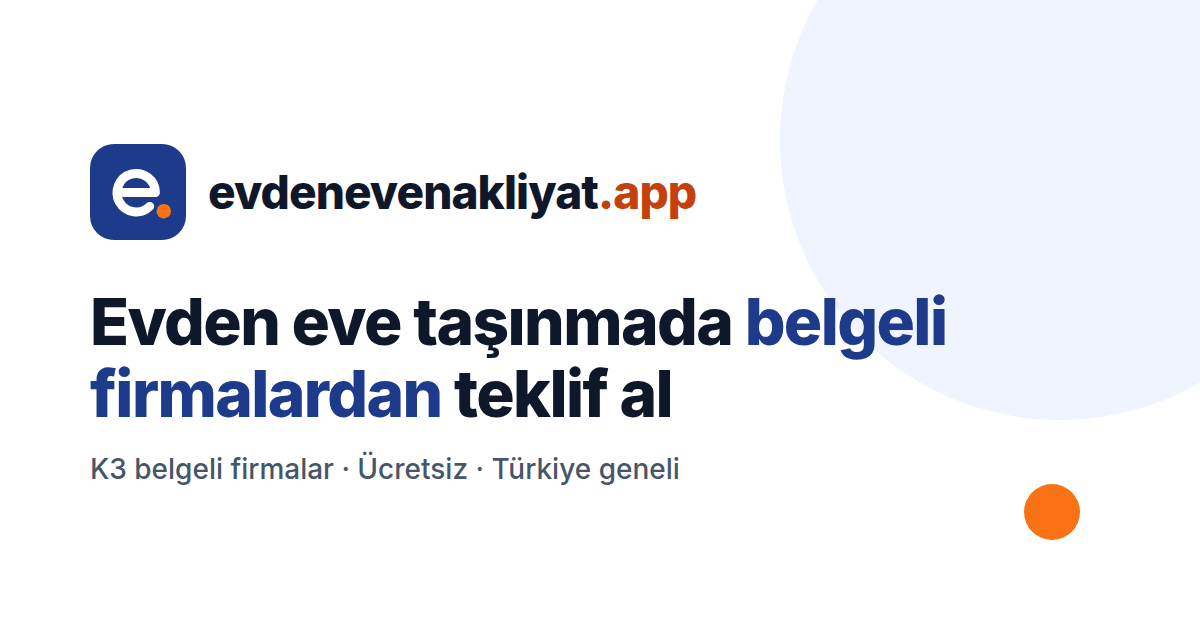
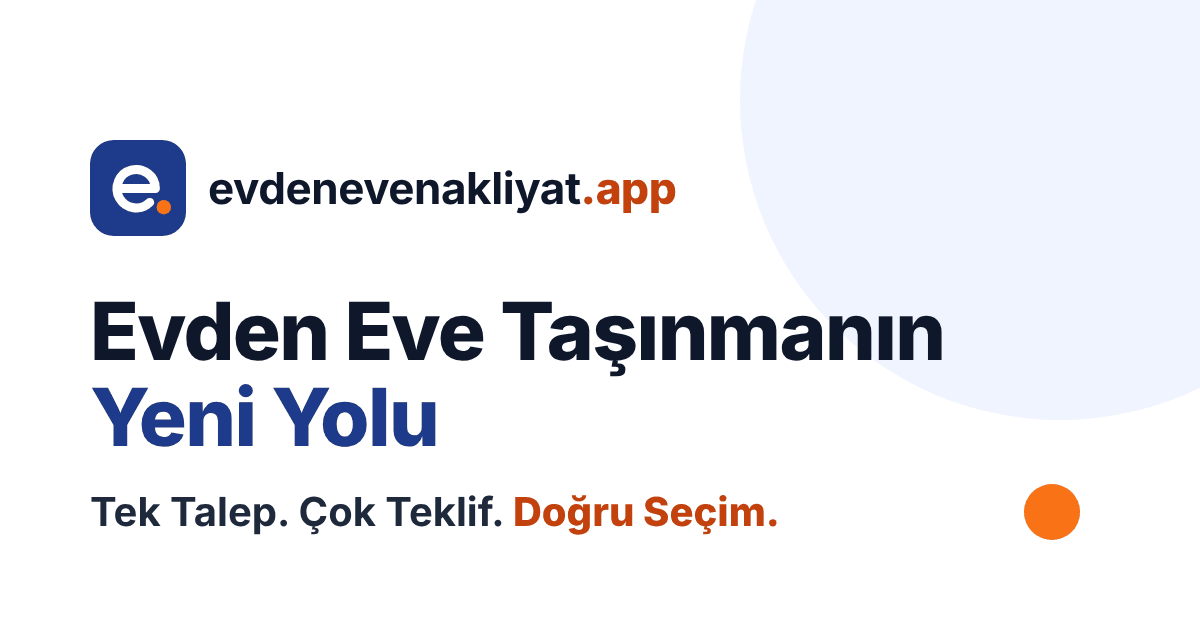
feat: marka sloganlarını siteye işle
Ana sayfa başlığı 'Evden Eve Taşınmanın Yeni Yolu', alt satır 'Tek Talep. Çok Teklif.
Doğru Seçim.', 'Taşınmak artık daha kolay.' vurgusu; adım başlıkları slogana uyumlu.
Varsayılan title/description, ana sayfa OG başlığı, paylaşım görseli, manifest,
Organization slogan alanı, altbilgi ve llms.txt sloganları kullanır.

Claude-Session: https://claude.ai/code/session_014zDsPqug8obgTDStpiGsYy

Changed region(s): [[0.0617, 0.4524, 0.8017, 0.8444], [0.0617, 0.2111, 0.5858, 0.3921]]

diff --git a/apps/web/src/app/(site)/page.tsx b/apps/web/src/app/(site)/page.tsx
@@ -1,3 +1,4 @@
+import type { Metadata } from "next";
 import Link from "next/link";
 import { citySlug, getCities } from "@nakliyat/locations";
 import { ButtonLink, buttonClass } from "@/components/ui/button";
@@ -15,6 +16,20 @@ import {
 import { HUB_PATH } from "@/lib/local-content";
 import { LAUNCH_CITIES } from "@/lib/local-seo";
 import { COMPANY_SIGNUP_PATH, MARKETING_PAGES } from "@/lib/marketing";
+import { BRAND_PROMISE, BRAND_SLOGAN, DEFAULT_OG_IMAGES, SITE_DESCRIPTION, SITE_NAME } from "@/lib/site";
+
+// Paylaşım kartında da marka sloganı görünsün (kök düzendeki openGraph başlık taşımaz, alt sayfalara sızmasın)
+export const metadata: Metadata = {
+  openGraph: {
+    type: "website",
+    locale: "tr_TR",
+    url: "/",
+    siteName: SITE_NAME,
+    title: `${BRAND_SLOGAN} | ${SITE_NAME}`,
+    description: SITE_DESCRIPTION,
+    images: DEFAULT_OG_IMAGES,
+  },
+};
 
 const selectClass =
   "mt-1.5 block w-full rounded-xl border border-zinc-300 bg-white px-3 py-3 text-base text-zinc-900 " +
@@ -46,15 +61,15 @@ const BENEFITS = [
 
 const STEPS = [
   {
-    title: "Talebini oluştur",
+    title: "Tek talep",
     text: "Nereden, nereye, ev tipi, kat ve tarih bilgilerini bir kez gir. İki dakika sürer.",
   },
   {
-    title: "Teklifler gelsin",
+    title: "Çok teklif",
     text: "Bölgende hizmet veren doğrulanmış firmalar talebine özel fiyat teklifi gönderir.",
   },
   {
-    title: "Karşılaştır ve seç",
+    title: "Doğru seçim",
     text: "Teklifleri fiyat, kapsam ve puana göre karşılaştır, sana uyanı tek tıkla kabul et.",
   },
 ];
@@ -83,12 +98,15 @@ export default function Home() {
               <ShieldCheckIcon className="h-3.5 w-3.5" /> K3 belgeli, doğrulanmış firmalar
             </Badge>
             <h1 className="mt-5 text-4xl font-extrabold leading-[1.1] text-zinc-900 sm:text-5xl lg:text-[3.4rem] dark:text-white">
-              Taşınmanı <span className="text-brand-700 dark:text-brand-300">güvenle</span> planla,
-              teklifleri tek yerden karşılaştır
+              Evden Eve Taşınmanın <span className="text-brand-700 dark:text-brand-300">Yeni Yolu</span>
             </h1>
-            <p className="mt-6 max-w-xl text-lg text-zinc-600 dark:text-zinc-300">
-              Taşınma bilgilerini bir kez gir. Türkiye genelinde doğrulanmış nakliyat firmaları sana
-              teklif göndersin; fiyatı, kapsamı ve puanı yan yana görüp en uygununu seç.
+            <p className="mt-5 text-xl font-bold text-zinc-800 sm:text-2xl dark:text-zinc-100">
+              Tek Talep. Çok Teklif. <span className="text-accent-700">Doğru Seçim.</span>
+            </p>
+            <p className="mt-4 max-w-xl text-lg text-zinc-600 dark:text-zinc-300">
+              <strong className="font-semibold text-zinc-800 dark:text-zinc-100">{BRAND_PROMISE}</strong> Taşınma
+              bilgilerini bir kez gir; Türkiye genelinde doğrulanmış nakliyat firmaları sana teklif göndersin,
+              fiyatı, kapsamı ve puanı yan yana görüp en uygununu seç.
             </p>
             <ul className="mt-8 flex flex-wrap gap-x-6 gap-y-2 text-sm font-medium text-zinc-700 dark:text-zinc-300">
               {["Ücretsiz", "Bağlayıcı değil", "81 ilde"].map((item) => (

diff --git a/apps/web/src/app/layout.tsx b/apps/web/src/app/layout.tsx
@@ -2,7 +2,7 @@ import type { Metadata, Viewport } from "next";
 import { Inter } from "next/font/google";
 import "./globals.css";
 import { ServiceWorker } from "@/components/pwa/service-worker";
-import { SITE_NAME, SITE_URL } from "@/lib/site";
+import { BRAND_SLOGAN, SITE_DESCRIPTION, SITE_NAME, SITE_URL } from "@/lib/site";
 
 // Tek yazı tipi ailesi: indirilen font dosyası az olsun, ilk boyama (LCP) gecikmesin.
 // Inter, Türkçe karakterlerde (ı, ş, ğ) aralıkları düzgün çizdiği için seçildi.
@@ -23,11 +23,10 @@ export const viewport: Viewport = {
 export const metadata: Metadata = {
   metadataBase: new URL(SITE_URL),
   title: {
-    default: "Evden Eve Nakliyat Teklifi Al | evdenevenakliyat.app",
+    default: `${BRAND_SLOGAN} | ${SITE_NAME}`,
     template: "%s | evdenevenakliyat.app",
   },
-  description:
-    "Taşınma bilgilerini bir kez gir, K3 belgeli doğrulanmış nakliyat firmalarından teklifleri karşılaştır, sana en uygun olanı seç.",
+  description: SITE_DESCRIPTION,
   alternates: { canonical: "/" },
   openGraph: {
     type: "website",
@@ -37,6 +36,7 @@ export const metadata: Metadata = {
   },
   robots: { index: true, follow: true },
   // iPhone'da "Ana Ekrana Ekle" ile kurulunca tam ekran uygulama gibi açılır
+  applicationName: SITE_NAME,
   appleWebApp: { capable: true, title: "Nakliyat", statusBarStyle: "default" },
 };
 

diff --git a/apps/web/src/lib/site.ts b/apps/web/src/lib/site.ts
@@ -1,6 +1,15 @@
 export const SITE_URL = process.env.NEXT_PUBLIC_SITE_URL ?? "https://evdenevenakliyat.app";
 export const SITE_NAME = "evdenevenakliyat.app";
 
+/** Marka sloganları (kullanıcı onaylı, 2026-10-06): başlıklar, meta açıklamalar ve tanıtım yerlerinde aynı sözler kullanılır */
+export const BRAND_SLOGAN = "Evden Eve Taşınmanın Yeni Yolu";
+export const BRAND_TAGLINE = "Tek Talep. Çok Teklif. Doğru Seçim.";
+export const BRAND_PROMISE = "Taşınmak artık daha kolay.";
+
+/** Ana sayfa ve varsayılan meta açıklaması (arama sonucunda ~155 karakter görünür) */
+export const SITE_DESCRIPTION =
+  "Tek talep, çok teklif, doğru seçim. Taşınma bilgilerini bir kez gir, K3 belgeli nakliyat firmalarının tekliflerini karşılaştır, sana uygun olanı seç.";
+
 /**
  * Paylaşım görseli (app/opengraph-image.png). Kökte dosya kuralıyla eklenir; kendi `openGraph`
  * nesnesini veren sayfalar onu tümden değiştirdiği için bu listeyi açıkça vermeli.
@@ -10,7 +19,7 @@ export const DEFAULT_OG_IMAGES = [
     url: "/opengraph-image.png",
     width: 1200,
     height: 630,
-    alt: "evdenevenakliyat.app: Evden eve taşınmada belgeli firmalardan teklif al",
+    alt: `evdenevenakliyat.app: ${BRAND_SLOGAN}. ${BRAND_TAGLINE}`,
   },
 ];
 

diff --git a/apps/web/src/components/site-footer.tsx b/apps/web/src/components/site-footer.tsx
@@ -5,6 +5,7 @@ import { LEGAL_LINKS } from "@/lib/legal";
 import { HUB_PATH } from "@/lib/local-content";
 import { LAUNCH_CITIES } from "@/lib/local-seo";
 import { COMPANY_SIGNUP_PATH, MARKETING_PAGES } from "@/lib/marketing";
+import { BRAND_PROMISE, BRAND_SLOGAN, BRAND_TAGLINE } from "@/lib/site";
 
 const COLUMNS = [
   {
@@ -45,9 +46,11 @@ export function SiteFooter() {
             <LogoMark />
             <span className="font-display font-bold text-zinc-900 dark:text-white">evdenevenakliyat.app</span>
           </div>
-          <p className="mt-4 max-w-xs text-sm text-zinc-600 dark:text-zinc-400">
-            Türkiye genelinde evden eve ve şehirler arası nakliyat için K3 belgeli, doğrulanmış
-            firmalardan teklif alıp karşılaştırabileceğin platform.
+          <p className="mt-4 max-w-xs text-sm font-semibold text-zinc-800 dark:text-zinc-200">
+            {BRAND_SLOGAN}
+          </p>
+          <p className="mt-1.5 max-w-xs text-sm text-zinc-600 dark:text-zinc-400">
+            {BRAND_TAGLINE} {BRAND_PROMISE}
           </p>
           <Link
             href={MARKETING_PAGES.about.href}

diff --git a/apps/web/src/app/(site)/layout.tsx b/apps/web/src/app/(site)/layout.tsx
@@ -1,7 +1,7 @@
 import { JsonLd } from "@/components/json-ld";
 import { SiteFooter } from "@/components/site-footer";
 import { SiteHeader } from "@/components/site-header";
-import { SITE_NAME, SITE_URL } from "@/lib/site";
+import { BRAND_SLOGAN, BRAND_TAGLINE, SITE_NAME, SITE_URL } from "@/lib/site";
 
 /** Herkese açık site ve müşteri/firma panelleri: üst menü ve altbilgi. Yönetim paneli bu düzenin dışında. */
 const organizationJsonLd = [
@@ -11,6 +11,7 @@ const organizationJsonLd = [
     "@id": `${SITE_URL}/#organization`,
     name: SITE_NAME,
     url: SITE_URL,
+    slogan: `${BRAND_SLOGAN}. ${BRAND_TAGLINE}`,
     description:
       "Türkiye genelinde evden eve ve şehirler arası nakliyat için doğrulanmış firma, fiyat ve taşınma rehberi platformu.",
     areaServed: { "@type": "Country", name: "Türkiye" },

diff --git a/apps/web/src/app/manifest.ts b/apps/web/src/app/manifest.ts
@@ -1,4 +1,5 @@
 import type { MetadataRoute } from "next";
+import { BRAND_SLOGAN, BRAND_TAGLINE } from "@/lib/site";
 
 /**
  * Telefona "uygulama gibi" kurulum (PWA). Ana ekrandan açılınca tarayıcı çubuğu olmadan,
@@ -10,7 +11,7 @@ export default function manifest(): MetadataRoute.Manifest {
     id: "/",
     name: "Evden Eve Nakliyat",
     short_name: "Nakliyat",
-    description: "Taşınma talepleri, teklifler ve mesajlar; yeni iş geldiğinde anında bildirim.",
+    description: `${BRAND_SLOGAN}. ${BRAND_TAGLINE} Taşınma talepleri, teklifler ve mesajlar; yeni iş geldiğinde anında bildirim.`,
     lang: "tr",
     dir: "ltr",
     start_url: "/uygulama",
